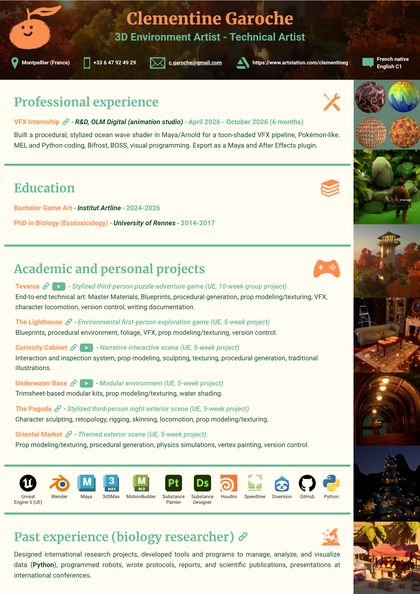
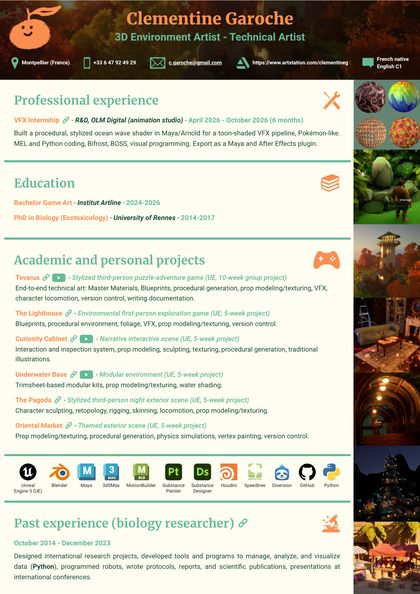
cv dates

Changed region(s): [[0.0, 0.1515, 0.8357, 1.0], [0.7738, 0.1515, 0.8048, 0.1818]]

diff --git a/fr.html b/fr.html
@@ -95,6 +95,7 @@
 
         <section class="block">
           <div class="block-head"><h2>Précédente expérience (chercheuse en biologie)<a class="lk" href="https://luminou.github.io/Data_Projects/" target="_blank" rel="noopener" title="Voir les projets data" aria-label="Voir les projets data"><img src="assets/ic_link.png" alt=""></a></h2><img src="assets/sec_biologie.png" alt=""></div>
+          <p class="line"><span class="t">octobre 2014 - décembre 2023</span></p>
           <p class="text">Conception de projets de recherche internationaux, développement d'outils et de programmes pour gérer, analyser et visualiser des données (<strong>Python</strong>), programmation de robots, rédaction de protocoles, rapports et publications scientifiques, présentations en conférences internationales.</p>
         </section>
       </main>

diff --git a/index.html b/index.html
@@ -530,6 +530,7 @@ h1 {
     [vid, anim, $("img-" + front)].forEach(function (el) { place(el, p); });
   });
 
+  var lastFit = "cover";
   function swap() {
     var p = P[cur];
     var fit = p.fit || "cover";
@@ -538,6 +539,11 @@ h1 {
     var room = "0";
     nImg.style.objectPosition = p.pos;
     place(nImg, p);
+    // quand on passe d'un cadrage plein ecran a la grille (ou l'inverse), pas de fondu entre les
+    // deux images : le melange d'une image pleine et d'une grille plus petite donnait un effet de zoom.
+    var cut = fit !== lastFit;
+    lastFit = fit;
+    if (cut) { fImg.style.transition = "none"; fImg.classList.add("fade"); void fImg.offsetWidth; fImg.style.transition = ""; }
     nImg.onload = function () {
       nImg.onload = null;
       nImg.classList.remove("fade");

diff --git a/en.html b/en.html
@@ -95,6 +95,7 @@
 
         <section class="block">
           <div class="block-head"><h2>Past experience (biology researcher)<a class="lk" href="https://luminou.github.io/Data_Projects/" target="_blank" rel="noopener" title="View the data projects" aria-label="View the data projects"><img src="assets/ic_link.png" alt=""></a></h2><img src="assets/sec_biologie.png" alt=""></div>
+          <p class="line"><span class="t">October 2014 - December 2023</span></p>
           <p class="text">Designed international research projects, developed tools and programs to manage, analyze, and visualize data (<strong>Python</strong>), programmed robots, wrote protocols, reports, and scientific publications, presentations at international conferences.</p>
         </section>
       </main>
